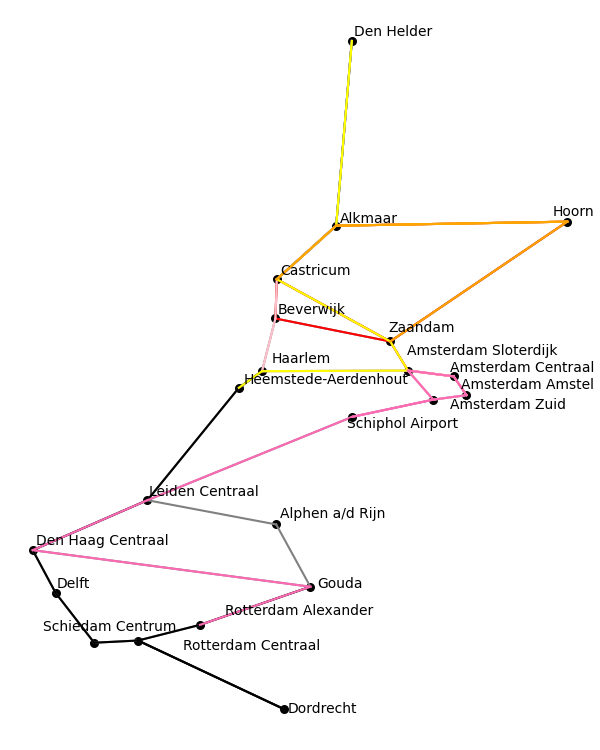
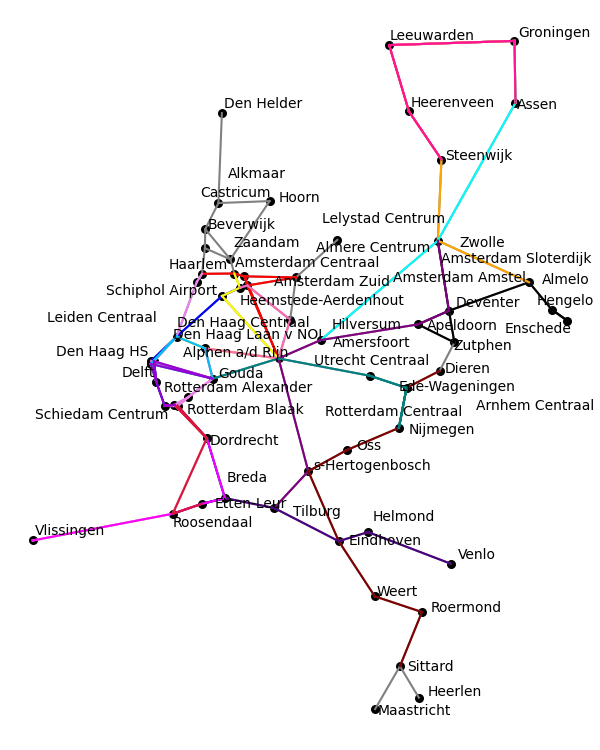
Genoeg kleuren voor 20 treinen toegevoegd.
Genoeg kleuren voor 20 treinen toegevoegd.

diff --git a/spoorschavuiten/main_visualisation.py b/spoorschavuiten/main_visualisation.py
@@ -1,13 +1,16 @@
-from code.visualization.visualize import makeMap, visualizeMap, drawUsedConnections, outputGraph, makeMapWithNames, moreMaps
+from code.visualization.visualize import makeMap, visualizeMap, drawUsedConnections, outputGraph, makeMapWithNames, onlyLines
 from code.classes.classes import Region
 from code.algorithms import randomise, randomise2
 
-holland = Region("data/StationsHolland.csv", "data/ConnectiesHolland.csv")
+holland = Region("data/StationsNationaal.csv", "data/ConnectiesNationaal.csv")
 
-max_trains = 7
+max_trains = 20
 xConnections = []
 yConnections = []
-colors = ["red", "blue", "pink", "black", "yellow", "hotpink", "orange"]
+colors = ["red", "blue", "pink", "black", "yellow",
+        "hotpink", "orange", "violet", "cyan", "purple",
+        "maroon", "indigo", "teal", "magenta", "crimson", "palevioletred", 
+        "salmon", "deepskyblue", "deeppink", "darkviolet", "goldenrod"]
 
 for i in range(max_trains):
     randomise2.random_route_2(holland)
@@ -22,3 +25,8 @@ visualizeMap(holland, "figures/connectionsWithStationNames.png")
 makeMap(holland)
 drawUsedConnections(holland, colors)
 visualizeMap(holland, "figures/connectionsInTheNetherlands.png")
+
+onlyLines(holland)
+drawUsedConnections(holland, colors)
+visualizeMap(holland, "figures/onlyLine.png")
+print(len(colors))

diff --git a/spoorschavuiten/code/visualization/visualize.py b/spoorschavuiten/code/visualization/visualize.py
@@ -24,6 +24,15 @@ def makeMap(region: Region) -> None:
     plt.grid(False)
 
 
+def onlyLines(region):
+    plt.style.use('_mpl-gallery')
+    plt.figure(figsize=(6,7.5))
+    xConnection = []
+    yConnection = []
+
+    drawLines(region, xConnection, yConnection)
+    plt.grid(False)
+
 def makeMapWithNames(region: Region) -> None:
     '''
     All stations and connections are imported, stations are made to a dot on the plot.
@@ -49,6 +58,7 @@ def visualizeMap(region: Region, name: str) -> None:
     # drawUsedConnections(region)
     plt.savefig(name)
     plt.show()
+
 
 def drawDots(region: Region, x: list, y: list) -> None:
     '''
